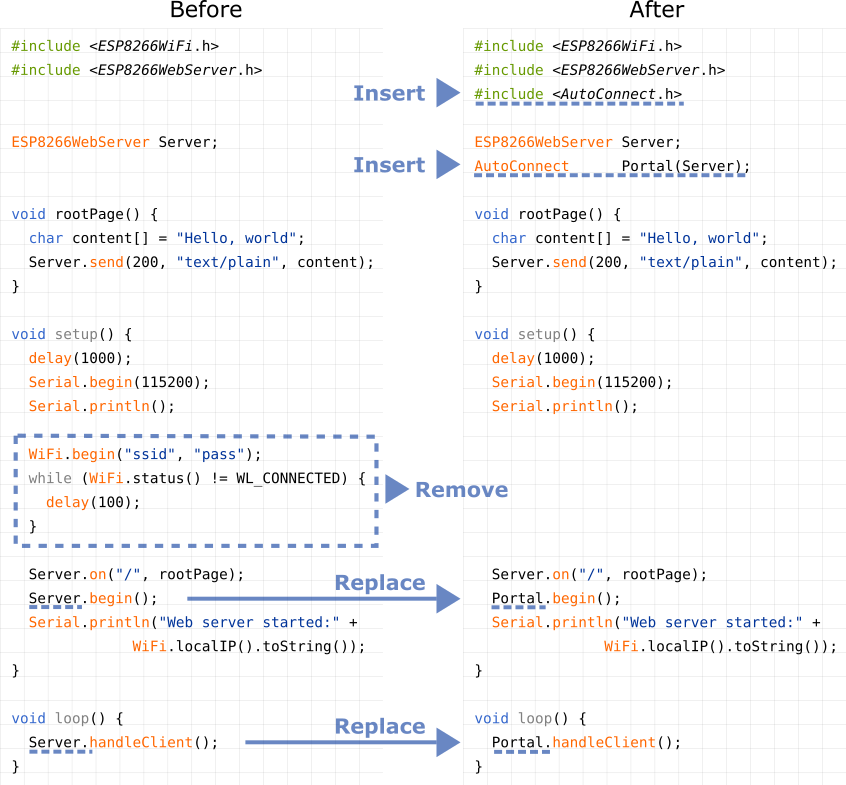
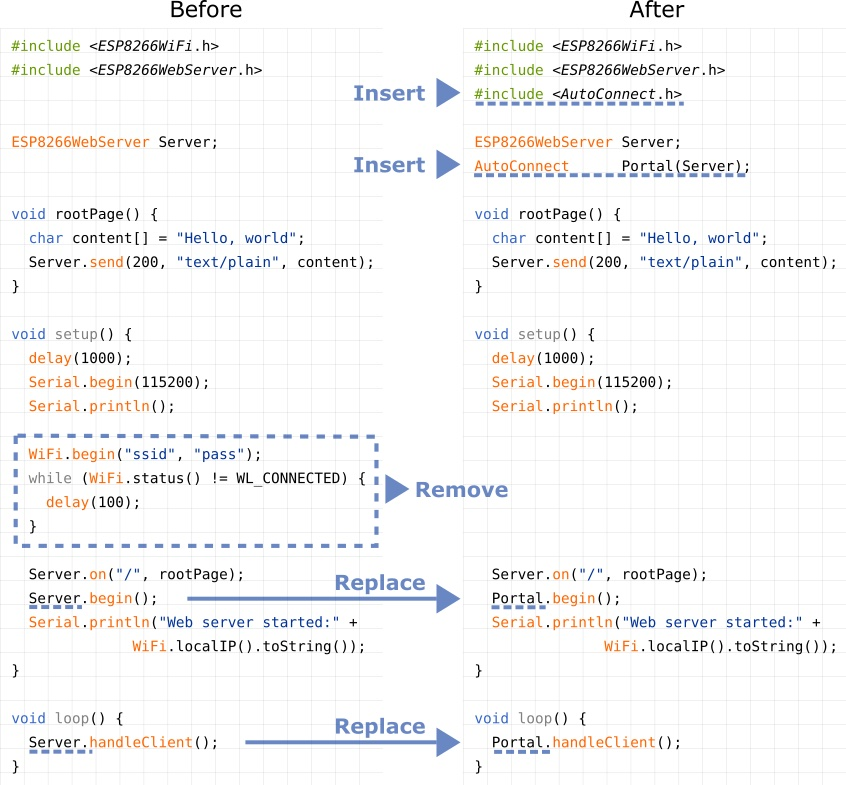
Revert the BeforeAfter figure

diff --git a/README.md b/README.md
@@ -86,7 +86,7 @@ Alter the platform applying the [arduino-esp32](https://github.com/espressif/ard
 
 Most simple approach to applying AutoConnect for the existing sketches, follow the below steps.
 
-<img src="mkdocs/images/beforeafter.jpg">
+<img src="mkdocs/images/beforeafter.png">
 
 ## More usages and Documentation
 
